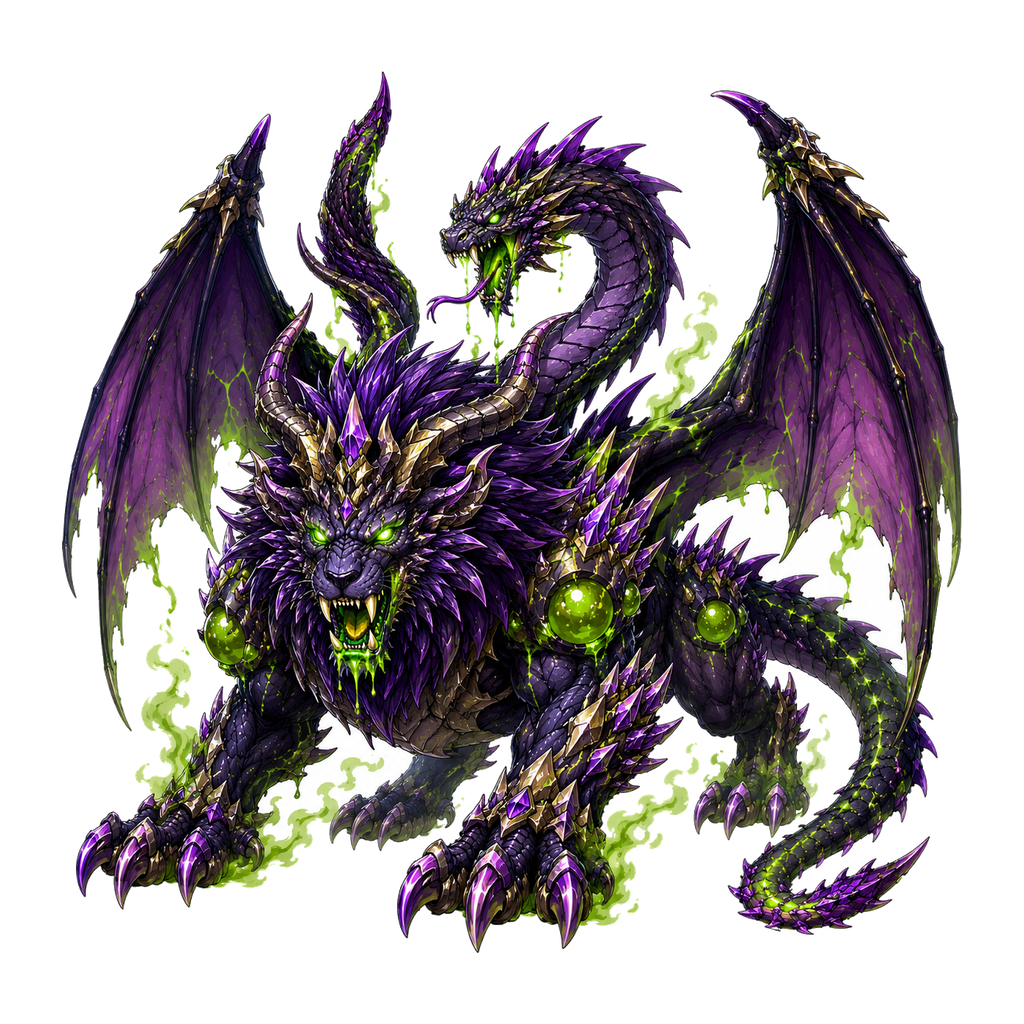
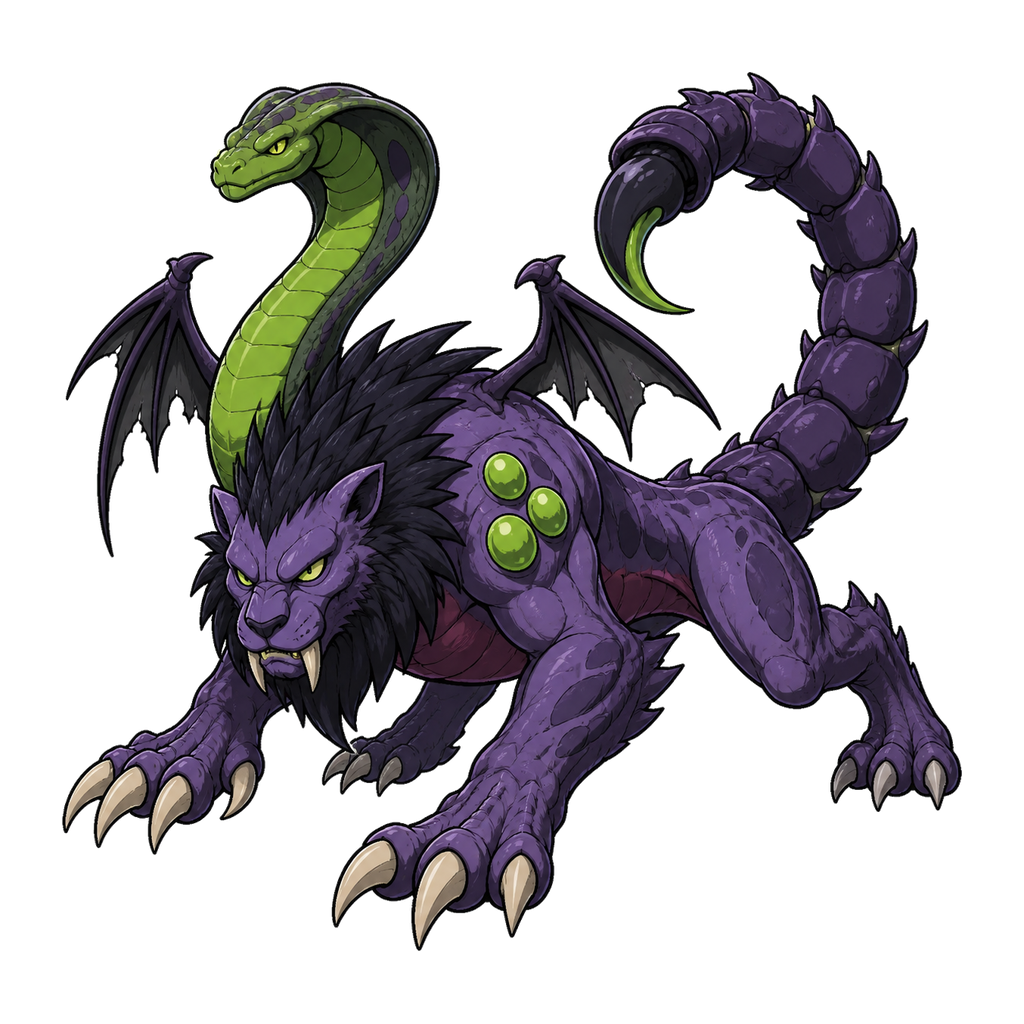
Refresh S-rank monster art for v8.6-A.61

diff --git a/docs/design/v8.6-A.61-character-directions/index.html b/docs/design/v8.6-A.61-character-directions/index.html
@@ -4,7 +4,7 @@
   <meta charset="utf-8">
   <meta name="viewport" content="width=device-width,initial-scale=1,viewport-fit=cover">
   <meta name="theme-color" content="#102b49">
-  <title>Monster Links Sランク 改訂＋最新試作</title>
+  <title>Monster Links Sランク 正式リニューアル</title>
   <style>
     :root{
       color-scheme:light;
@@ -53,9 +53,6 @@
       text-align:center;
     }
     .grid{display:grid;gap:18px}
-    .trial-heading{margin:0 0 10px;text-align:center;font-size:21px;line-height:1.4}
-    .trial-wrap{max-width:700px;margin:0 auto 24px}
-    .trial-note{margin:0;padding:11px 16px 14px;color:var(--muted);font-size:12px;font-weight:700;line-height:1.6;text-align:center}
     article{
       overflow:hidden;
       border:1px solid var(--line);
@@ -73,8 +70,13 @@
     }
     .label b{font-size:19px}
     .label span{color:var(--muted);font-size:12px;font-weight:700}
-    figure{margin:0;background:#eef6fb}
-    img{display:block;width:100%;height:auto}
+    figure{
+      margin:0;
+      background:
+        radial-gradient(circle at 50% 42%,rgba(255,255,255,.18),transparent 48%),
+        linear-gradient(145deg,#1a3554,#0c1c31 72%);
+    }
+    img{display:block;width:100%;height:auto;aspect-ratio:1;object-fit:contain;padding:10px}
     .open{
       display:flex;
       min-height:48px;
@@ -98,38 +100,29 @@
 <body>
   <header>
     <small>MONSTER LINKS / S-RANK MONSTERS</small>
-    <h1>Sランク 改訂＋最新試作</h1>
-    <p>最上段に、装飾よりも姿勢とシルエットで格好よさを出したゼニスドラゴンの最新試作を追加しました。画像を押すと大きく確認できます。</p>
+    <h1>Sランク 正式リニューアル</h1>
+    <p>成熟した体格、鋭い目、大きく読める輪郭を軸に、強さがひと目で伝わる3体へ一新しました。画像を押すとゲーム本体で使う透過PNGを大きく確認できます。</p>
   </header>
   <main>
-    <p class="notice">ぷるミンを含むスライム系の見た目は変更しません。今回は「可愛すぎる」を抑えた闇・光竜・毒キマイラの改訂版です。</p>
-    <section aria-labelledby="cool-trial-heading">
-      <h2 class="trial-heading" id="cool-trial-heading">さらに格好よくする試作</h2>
-      <article class="trial-wrap">
-        <div class="label"><b>ゼニスドラゴン</b><span>最新試作 / COOL</span></div>
-        <figure><a href="zenithdragon-cool-trial.webp?rev=cool-trial-v1"><img src="zenithdragon-cool-trial.webp?rev=cool-trial-v1" width="1254" height="1254" alt="長い体を低く構え、鋭い目、巨大な三日月翼、金色の火焔角と円を描く尾を持つゼニスドラゴンの格好よさ重視試作" fetchpriority="high"></a></figure>
-        <p class="trial-note">体を長く、頭を低く、翼と尾を大きな形にまとめた試作です。背景のチェッカー表示は試作画像に含まれ、ゲーム本体にはまだ反映していません。</p>
-        <a class="open" href="zenithdragon-cool-trial.webp?rev=cool-trial-v1">試作画像だけを大きく開く</a>
-      </article>
-    </section>
+    <p class="notice">ぷるミンを含むスライム系の見た目は変更していません。ゲーム仕様・能力・配合・進行もそのままです。</p>
     <div class="grid">
       <article>
         <div class="label"><b>デモンロード</b><span>Sランク / 闇</span></div>
-        <figure><a href="direction-1.webp?rev=menace-v2"><img src="direction-1.webp?rev=menace-v2" width="1536" height="1024" alt="鋭い三つ目、巨大な巻き角、ぼろぼろの翼と大爪を持つ威圧的な紫色のデモンロード改訂案" fetchpriority="high"></a></figure>
-        <a class="open" href="direction-1.webp?rev=menace-v2">画像だけを大きく開く</a>
+        <figure><a href="../../../assets/images/monsters/demonlord.png?v=8.6-A.61"><img src="../../../assets/images/monsters/demonlord.png?v=8.6-A.61" width="1024" height="1024" alt="鋭い三つ目、巨大な巻き角、ぼろぼろの赤黒い翼と大爪を持つ紫黒のデモンロード正式版" fetchpriority="high"></a></figure>
+        <a class="open" href="../../../assets/images/monsters/demonlord.png?v=8.6-A.61">正式画像だけを大きく開く</a>
       </article>
       <article>
         <div class="label"><b>ゼニスドラゴン</b><span>Sランク / 光・竜</span></div>
-        <figure><a href="direction-2.webp?rev=menace-v2"><img src="direction-2.webp?rev=menace-v2" width="1536" height="1024" alt="鋭い青い目、太陽のような金色のたてがみ、大きな赤い翼と鉤爪を持つ白いゼニスドラゴン改訂案" loading="lazy"></a></figure>
-        <a class="open" href="direction-2.webp?rev=menace-v2">画像だけを大きく開く</a>
+        <figure><a href="../../../assets/images/monsters/zenithdragon.png?v=8.6-A.61"><img src="../../../assets/images/monsters/zenithdragon.png?v=8.6-A.61" width="1024" height="1024" alt="鋭い青い目、金色の火焔角、赤い翼と円を描く尾を持つ白金のゼニスドラゴン正式版" loading="lazy"></a></figure>
+        <a class="open" href="../../../assets/images/monsters/zenithdragon.png?v=8.6-A.61">正式画像だけを大きく開く</a>
       </article>
       <article>
         <div class="label"><b>ヴェノムキマイラ</b><span>Sランク / 毒・キマイラ</span></div>
-        <figure><a href="direction-3.webp?rev=menace-v2"><img src="direction-3.webp?rev=menace-v2" width="1536" height="1024" alt="低く身構えた紫の猛獣、緑の毒蛇、黒紫のサソリ尾を合わせた獰猛なヴェノムキマイラ改訂案" loading="lazy"></a></figure>
-        <a class="open" href="direction-3.webp?rev=menace-v2">画像だけを大きく開く</a>
+        <figure><a href="../../../assets/images/monsters/venomchimera.png?v=8.6-A.61"><img src="../../../assets/images/monsters/venomchimera.png?v=8.6-A.61" width="1024" height="1024" alt="低く身構えた紫黒の猛獣、緑の毒蛇、毒針を持つサソリ尾を合わせたヴェノムキマイラ正式版" loading="lazy"></a></figure>
+        <a class="open" href="../../../assets/images/monsters/venomchimera.png?v=8.6-A.61">正式画像だけを大きく開く</a>
       </article>
     </div>
   </main>
-  <footer>最新試作の方向性が合えば、この格好よさを他のSランクにも展開します。</footer>
+  <footer>v8.6-A.61でゲーム本体へ反映。次の強キャラ刷新も、この有機的で格好よい方向を基準にします。</footer>
 </body>
 </html>

diff --git a/index.html b/index.html
@@ -8,11 +8,11 @@
   <meta name="apple-mobile-web-app-capable" content="yes" />
   <meta name="apple-mobile-web-app-status-bar-style" content="black-translucent" />
   <meta name="apple-mobile-web-app-title" content="Monster Links" />
-  <title>モンスターリンクス v8.6-A.60</title>
-  <link rel="manifest" href="manifest.webmanifest?v=8.6-A.60" />
+  <title>モンスターリンクス v8.6-A.61</title>
+  <link rel="manifest" href="manifest.webmanifest?v=8.6-A.61" />
   <link rel="icon" href="assets/images/ui/app-icon-192.png" sizes="192x192" />
   <link rel="apple-touch-icon" href="assets/images/ui/apple-touch-icon.png" />
-  <link rel="stylesheet" href="css/style.css?v=8.6-A.60" />
+  <link rel="stylesheet" href="css/style.css?v=8.6-A.61" />
 </head>
 <body>
   <div id="app" class="app"></div>
@@ -21,50 +21,50 @@
     v3.1: 公開後の見た目 polish。タイトル画面、図鑑、戦闘画面を見やすく調整。
     import/export や fetch(JSON) を使わないため、ローカルで開いても壊れにくい構成です。
   -->
-  <script src="js/core/config.js?v=8.6-A.60"></script>
-  <script src="js/core/balance.js?v=8.6-A.60"></script>
-  <script src="js/core/skills.js?v=8.6-A.60"></script>
-  <script src="js/core/monsters.js?v=8.6-A.60"></script>
-  <script src="js/core/items.js?v=8.6-A.60"></script>
-  <script src="js/core/stages.js?v=8.6-A.60"></script>
-  <script src="js/core/arena.js?v=8.6-A.60"></script>
-  <script src="js/core/recipes.js?v=8.6-A.60"></script>
-  <script src="js/core/quests.js?v=8.6-A.60"></script>
-  <script src="js/core/data.js?v=8.6-A.60"></script>
-  <script src="js/core/utils.js?v=8.6-A.60"></script>
-  <script src="js/core/state.js?v=8.6-A.60"></script>
-  <script src="js/app.js?v=8.6-A.60"></script>
-  <script src="js/systems/battle.js?v=8.6-A.60"></script>
-  <script src="js/systems/arena.js?v=8.6-A.60"></script>
-  <script src="js/systems/fusion.js?v=8.6-A.60"></script>
-  <script src="js/systems/monster.js?v=8.6-A.60"></script>
-  <script src="js/systems/shop.js?v=8.6-A.60"></script>
-  <script src="js/systems/quest.js?v=8.6-A.60"></script>
-  <script src="js/systems/devtools.js?v=8.6-A.60"></script>
-  <script src="js/systems/filters.js?v=8.6-A.60"></script>
-  <script src="js/systems/fusionGoals.js?v=8.6-A.60"></script>
-  <script src="js/systems/dex.js?v=8.6-A.60"></script>
-  <script src="js/views/layoutView.js?v=8.6-A.60"></script>
-  <script src="js/views/titleView.js?v=8.6-A.60"></script>
-  <script src="js/views/imageView.js?v=8.6-A.60"></script>
-  <script src="js/views/uiView.js?v=8.6-A.60"></script>
-  <script src="js/views/monsterComponents.js?v=8.6-A.60"></script>
-  <script src="js/views/fusionGoalsView.js?v=8.6-A.60"></script>
-  <script src="js/views/homeView.js?v=8.6-A.60"></script>
-  <script src="js/views/stageView.js?v=8.6-A.60"></script>
-  <script src="js/views/monsterView.js?v=8.6-A.60"></script>
-  <script src="js/views/fusionView.js?v=8.6-A.60"></script>
-  <script src="js/views/dexView.js?v=8.6-A.60"></script>
-  <script src="js/views/questView.js?v=8.6-A.60"></script>
-  <script src="js/views/shopView.js?v=8.6-A.60"></script>
-  <script src="js/views/settingsView.js?v=8.6-A.60"></script>
-  <script src="js/views/menuView.js?v=8.6-A.60"></script>
-  <script src="js/views/arenaView.js?v=8.6-A.60"></script>
-  <script src="js/views/helpView.js?v=8.6-A.60"></script>
-  <script src="js/views/devToolsView.js?v=8.6-A.60"></script>
-  <script src="js/views/battleView.js?v=8.6-A.60"></script>
-  <script src="js/views/render.js?v=8.6-A.60"></script>
-  <script src="js/pwa.js?v=8.6-A.60"></script>
-  <script src="js/main.js?v=8.6-A.60"></script>
+  <script src="js/core/config.js?v=8.6-A.61"></script>
+  <script src="js/core/balance.js?v=8.6-A.61"></script>
+  <script src="js/core/skills.js?v=8.6-A.61"></script>
+  <script src="js/core/monsters.js?v=8.6-A.61"></script>
+  <script src="js/core/items.js?v=8.6-A.61"></script>
+  <script src="js/core/stages.js?v=8.6-A.61"></script>
+  <script src="js/core/arena.js?v=8.6-A.61"></script>
+  <script src="js/core/recipes.js?v=8.6-A.61"></script>
+  <script src="js/core/quests.js?v=8.6-A.61"></script>
+  <script src="js/core/data.js?v=8.6-A.61"></script>
+  <script src="js/core/utils.js?v=8.6-A.61"></script>
+  <script src="js/core/state.js?v=8.6-A.61"></script>
+  <script src="js/app.js?v=8.6-A.61"></script>
+  <script src="js/systems/battle.js?v=8.6-A.61"></script>
+  <script src="js/systems/arena.js?v=8.6-A.61"></script>
+  <script src="js/systems/fusion.js?v=8.6-A.61"></script>
+  <script src="js/systems/monster.js?v=8.6-A.61"></script>
+  <script src="js/systems/shop.js?v=8.6-A.61"></script>
+  <script src="js/systems/quest.js?v=8.6-A.61"></script>
+  <script src="js/systems/devtools.js?v=8.6-A.61"></script>
+  <script src="js/systems/filters.js?v=8.6-A.61"></script>
+  <script src="js/systems/fusionGoals.js?v=8.6-A.61"></script>
+  <script src="js/systems/dex.js?v=8.6-A.61"></script>
+  <script src="js/views/layoutView.js?v=8.6-A.61"></script>
+  <script src="js/views/titleView.js?v=8.6-A.61"></script>
+  <script src="js/views/imageView.js?v=8.6-A.61"></script>
+  <script src="js/views/uiView.js?v=8.6-A.61"></script>
+  <script src="js/views/monsterComponents.js?v=8.6-A.61"></script>
+  <script src="js/views/fusionGoalsView.js?v=8.6-A.61"></script>
+  <script src="js/views/homeView.js?v=8.6-A.61"></script>
+  <script src="js/views/stageView.js?v=8.6-A.61"></script>
+  <script src="js/views/monsterView.js?v=8.6-A.61"></script>
+  <script src="js/views/fusionView.js?v=8.6-A.61"></script>
+  <script src="js/views/dexView.js?v=8.6-A.61"></script>
+  <script src="js/views/questView.js?v=8.6-A.61"></script>
+  <script src="js/views/shopView.js?v=8.6-A.61"></script>
+  <script src="js/views/settingsView.js?v=8.6-A.61"></script>
+  <script src="js/views/menuView.js?v=8.6-A.61"></script>
+  <script src="js/views/arenaView.js?v=8.6-A.61"></script>
+  <script src="js/views/helpView.js?v=8.6-A.61"></script>
+  <script src="js/views/devToolsView.js?v=8.6-A.61"></script>
+  <script src="js/views/battleView.js?v=8.6-A.61"></script>
+  <script src="js/views/render.js?v=8.6-A.61"></script>
+  <script src="js/pwa.js?v=8.6-A.61"></script>
+  <script src="js/main.js?v=8.6-A.61"></script>
 
 </html>

diff --git a/js/core/config.js b/js/core/config.js
@@ -6,7 +6,7 @@
   const SLOT_PREFIX = "monster_links_slot_";
   const ACTIVE_SLOT_KEY = "monster_links_active_slot";
   const SLOT_COUNT = 3;
-  const GAME_VERSION = "8.6-A.60";
+  const GAME_VERSION = "8.6-A.61";
   const SAVE_SCHEMA_VERSION = 1;
   const DEV_PASSWORD = "rei-dev";
   const MAX_PARTY = 3;

diff --git a/service-worker.js b/service-worker.js
@@ -1,6 +1,6 @@
 "use strict";
 
-const VERSION = "8.6-A.60";
+const VERSION = "8.6-A.61";
 const CACHE_PREFIX = "monster-links-";
 const CACHE_NAME = `${CACHE_PREFIX}${VERSION}`;
 const VERSION_QUERY = `v=${VERSION}`;

diff --git a/js/pwa.js b/js/pwa.js
@@ -1,7 +1,7 @@
 (() => {
   "use strict";
 
-  const VERSION = "8.6-A.60";
+  const VERSION = "8.6-A.61";
   const MIN_UPDATE_INTERVAL = 60 * 1000;
   let lastUpdateCheck = 0;
 

diff --git a/docs/VERSION_HISTORY.md b/docs/VERSION_HISTORY.md
@@ -1,5 +1,14 @@
 # Version History
 
+## v8.6-A.61 S-rank monster art renewal
+
+- Rebuilt Zenith Dragon, Demon Lord, and Venom Chimera as mature, organic S-rank monsters with cleaner silhouettes and less decorative noise.
+- Kept all slime-family art unchanged.
+- Replaced only the three existing production PNGs while preserving monster IDs, stats, recipes, progression, rewards, stages, and battle balance.
+- Added true-alpha 1024 x 1024 assets with mobile-safe padding and archived the v8.6-A.60 originals for rollback.
+- Preserved save schema 1 and every existing save/storage key.
+- Updated PWA/cache version to v8.6-A.61.
+
 ## v8.6-A.60 Fusion route guidance
 
 - Added a contextual Adventure-screen guide that routes players to Fusion after reaching the Star Crystal Tower with zero fusions, and again at the Prism Sanctuary with fewer than two fusions.

diff --git a/README.md b/README.md
@@ -1,6 +1,14 @@
-# Monster Links v8.6-A.60
+# Monster Links v8.6-A.61
 
 スマホでも遊べる、ソロ向けモンスター育成・配合RPGです。
+
+## v8.6-A.61 update
+
+- Rebuilt Zenith Dragon, Demon Lord, and Venom Chimera as mature, organic S-rank monsters with stronger silhouettes and reduced decorative noise.
+- Kept every slime-family monster unchanged, along with monster IDs, stats, recipes, progression, rewards, and battle balance.
+- Added true-alpha, square-safe production art for title, boss, arena, battle, fusion, party, and dex surfaces.
+- Preserved save schema 1 and all existing save/storage keys.
+- Updated PWA/cache version to v8.6-A.61.
 
 ## v8.6-A.60 update
 
@@ -136,7 +144,7 @@
 ## 現在の安定版
 
 ```text
-v8.6-A.60 Fusion route guidance
+v8.6-A.61 S-rank monster art renewal
 ```
 
 ## v8.6-A.49 update

diff --git a/docs/CURRENT_VERSION.md b/docs/CURRENT_VERSION.md
@@ -1,3 +1,15 @@
+v8.6-A.61 S-rank monster art renewal
+GAME_VERSION to 8.6-A.61
+
+Main changes:
+- Rebuilt Zenith Dragon, Demon Lord, and Venom Chimera with a mature, organic, non-cute S-rank direction and stronger mobile silhouettes.
+- Kept every slime-family monster unchanged.
+- Replaced only the three existing image files; monster IDs, stats, recipes, progression, rewards, stages, and battle balance are unchanged.
+- Added real-alpha 1024 x 1024 assets with square-safe padding and preserved the v8.6-A.60 art in a rollback directory.
+- Preserved save schema 1, save keys, and all content IDs.
+- Updated PWA/cache version to v8.6-A.61.
+---
+
 v8.6-A.60 Fusion route guidance
 GAME_VERSION to 8.6-A.60
 

diff --git a/docs/PROJECT_SPEC_CHATGPT.md b/docs/PROJECT_SPEC_CHATGPT.md
@@ -1,7 +1,7 @@
 # Monster Links 現行プロジェクト仕様書
 
 更新日: 2026-08-17
-対象バージョン: v8.6-A.60
+対象バージョン: v8.6-A.61
 
 この文書は、普通のChatGPTや別の開発担当へプロジェクトを引き継ぐための現行仕様書です。
 古いdocsと内容が異なる場合は、この文書と実際のゲームコードを優先してください。
